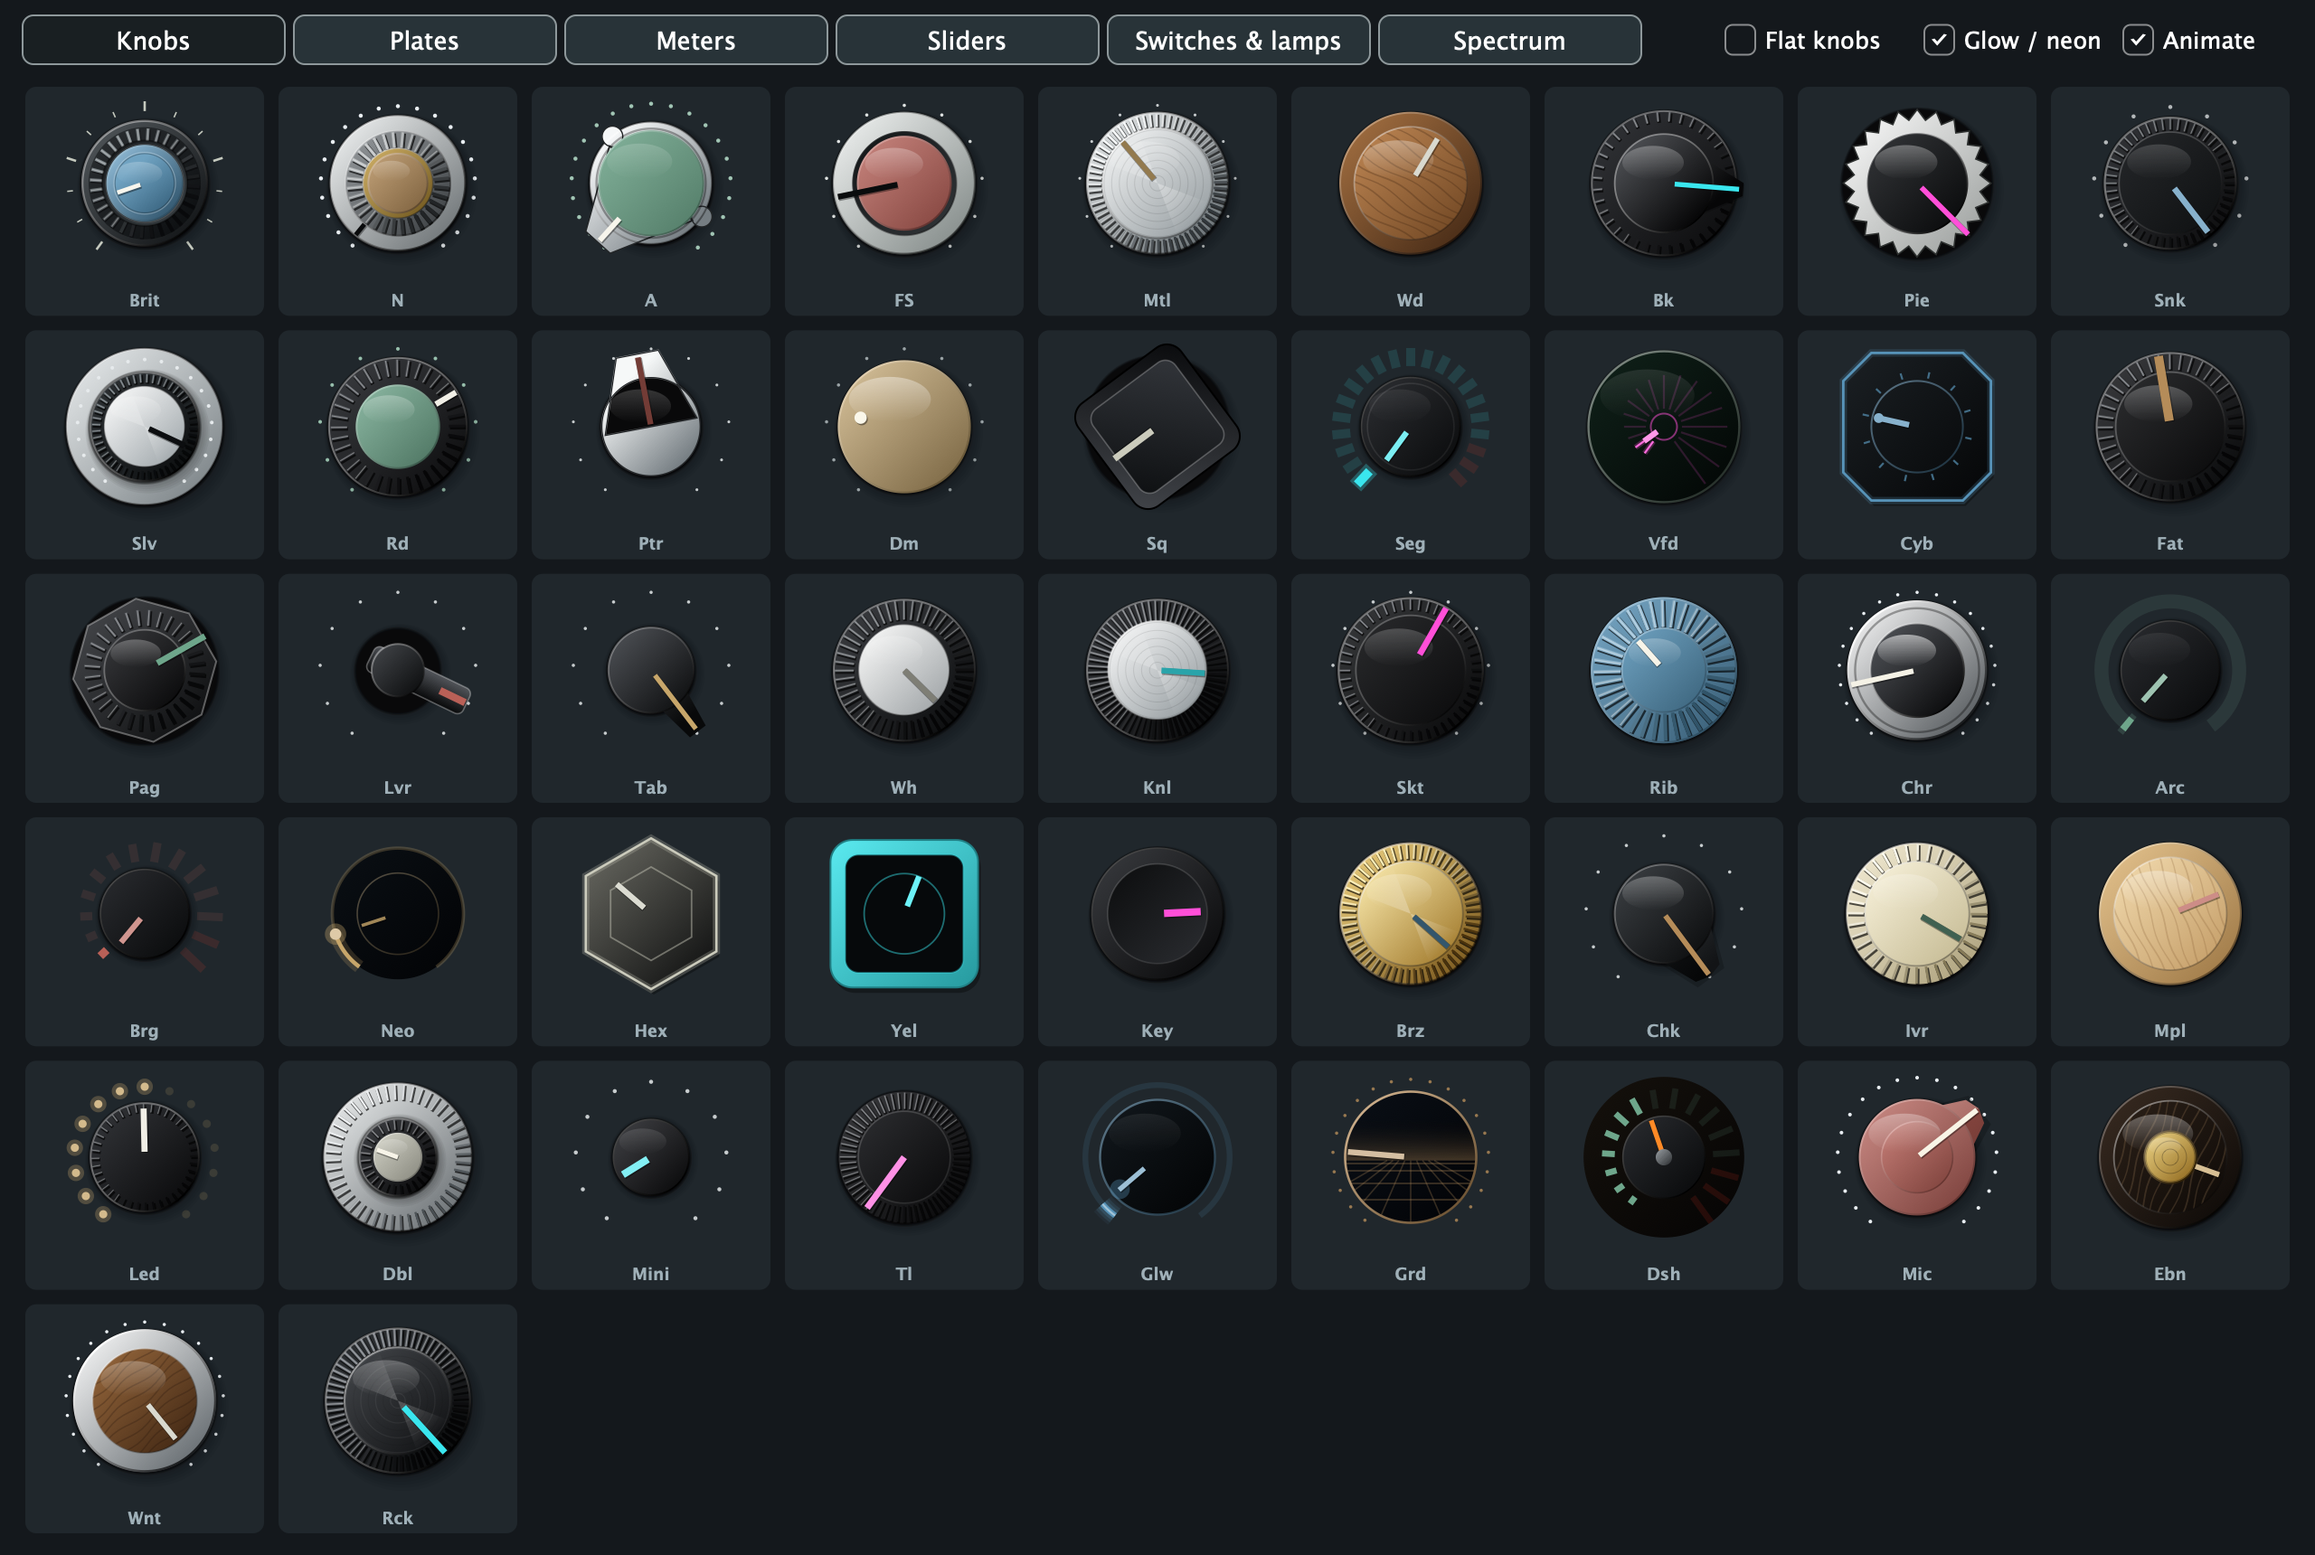
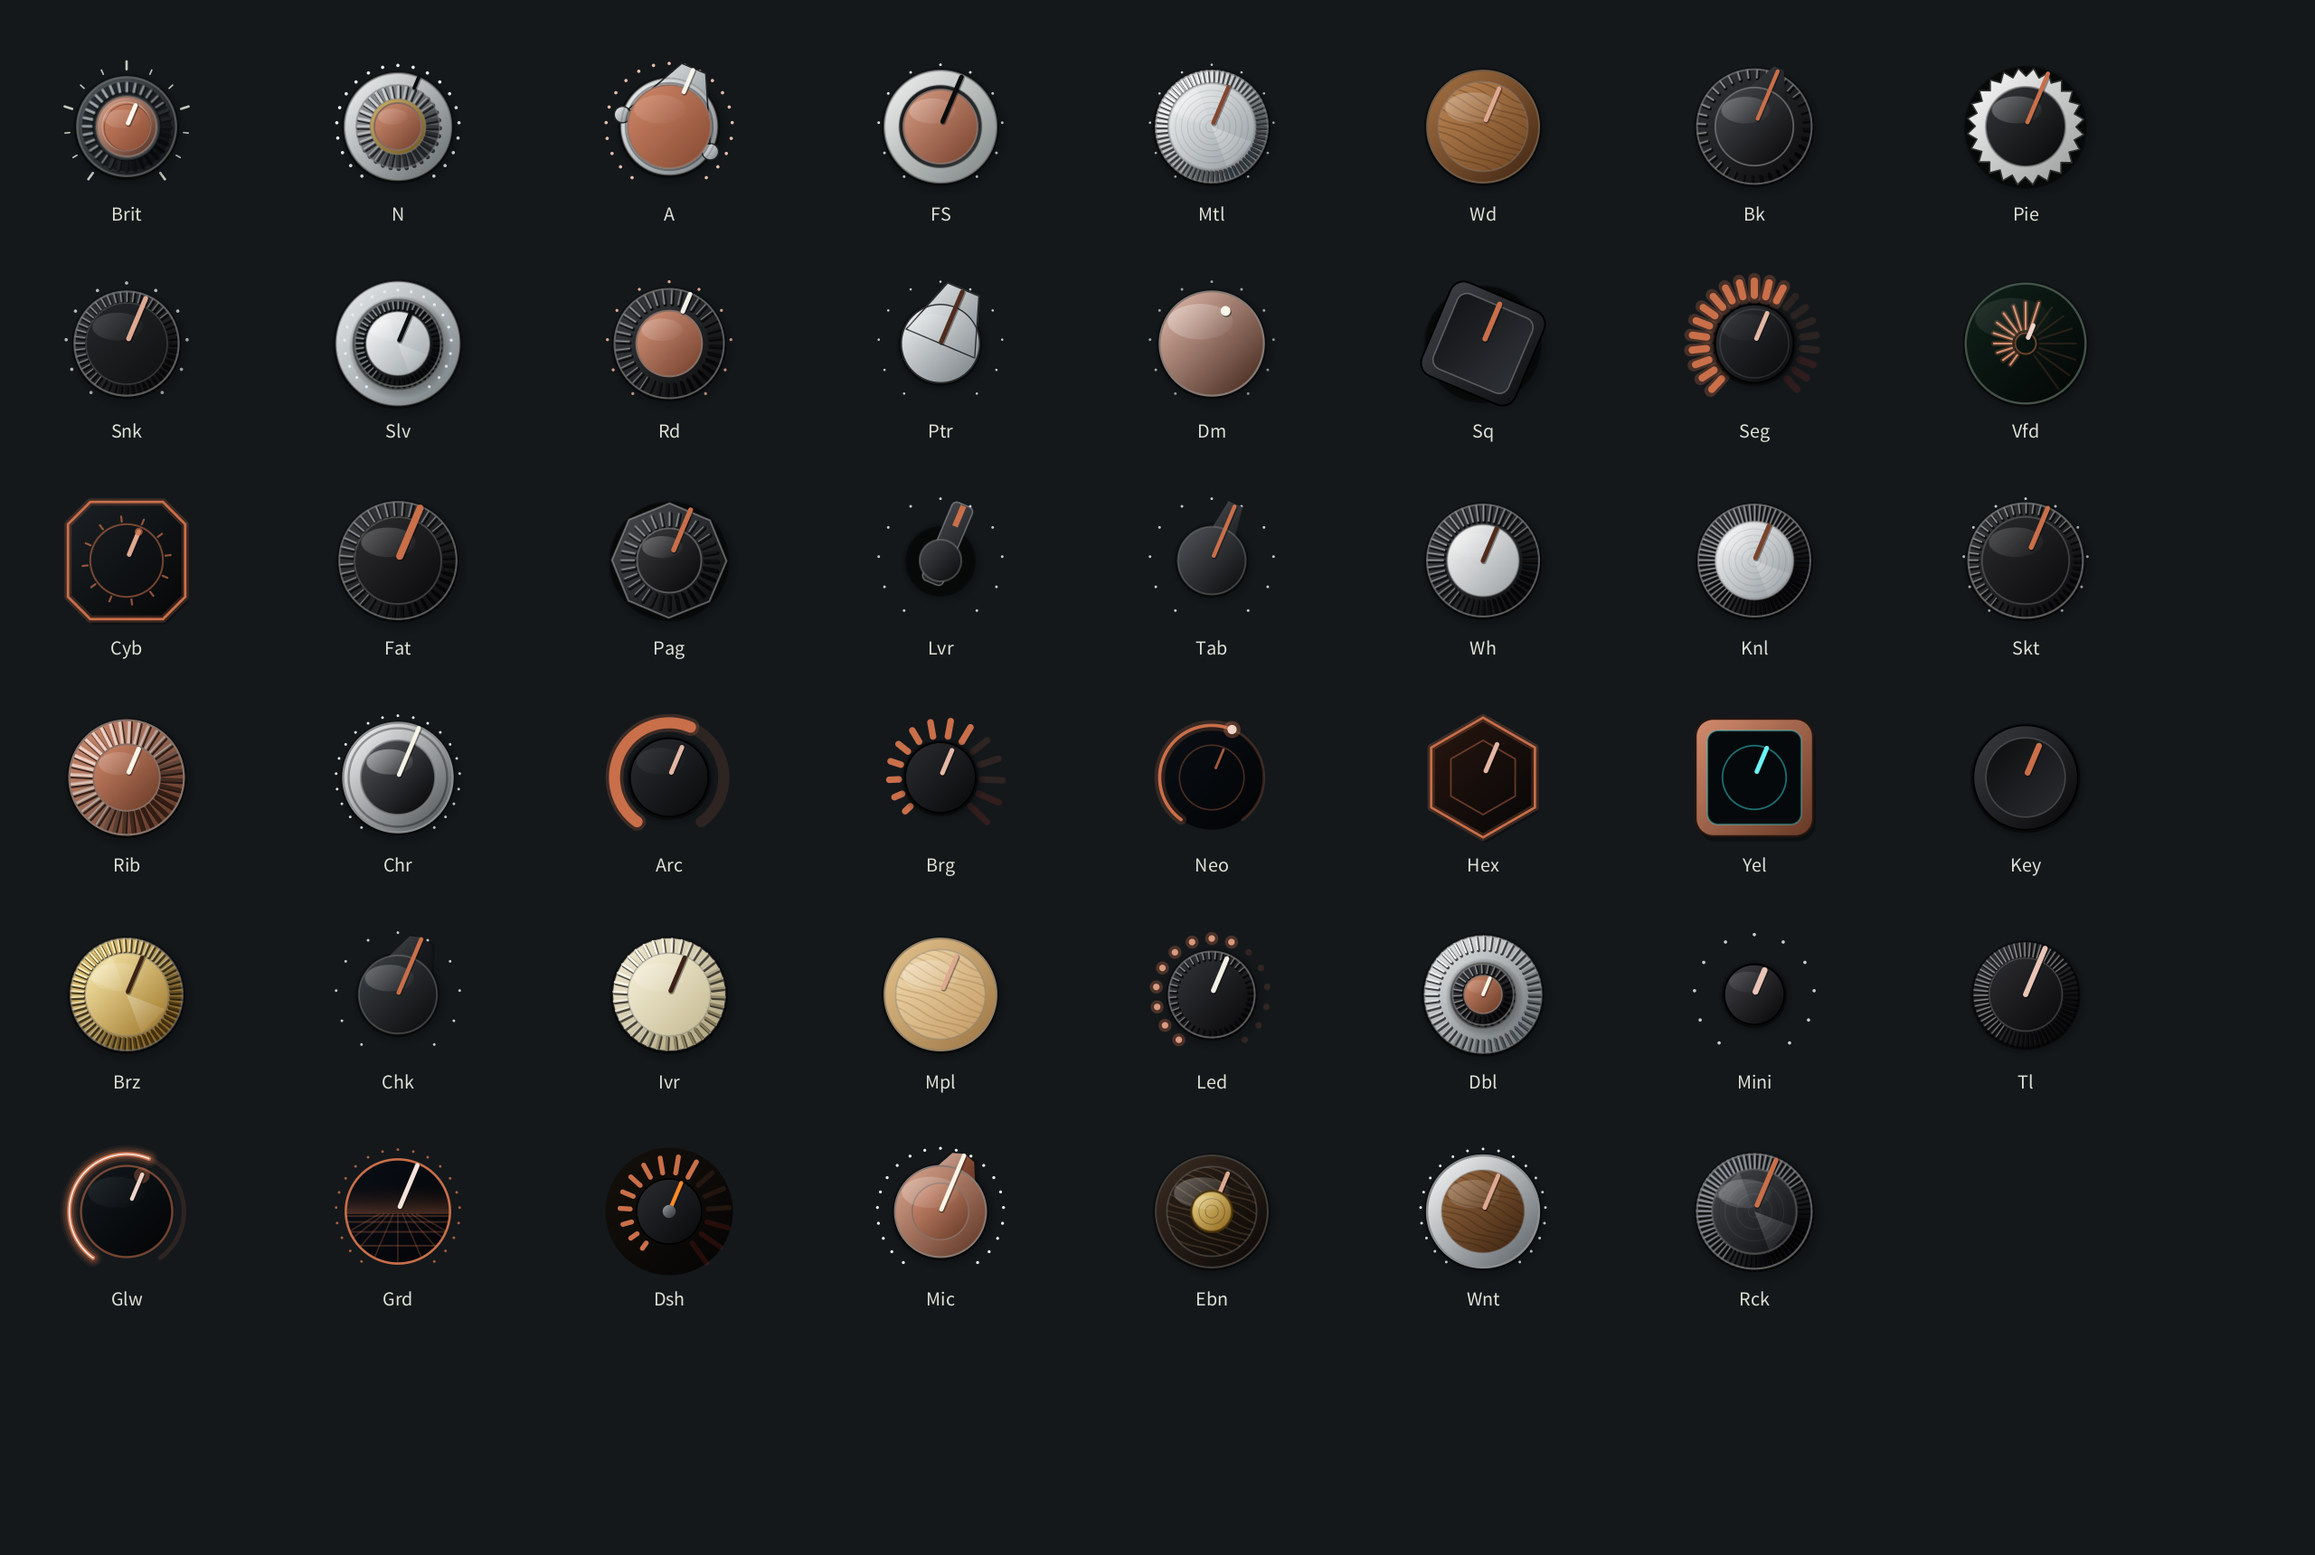
docs: regenerate screenshots and document the lit tier and newer commands
Screenshots are now rendered by this repository's own examples and show
the redesigned parts, the lit knob tier and a demo faceplate. The
integration guide covers lit knobs, the scale and floor hints, and how
hosts handle the newer Scene commands.

diff --git a/docs/INTEGRATION.md b/docs/INTEGRATION.md
@@ -72,6 +72,22 @@ Replay `scene.cmds`. Each command is an ellipse, round rectangle, line, polygon,
 
 `draw::FLAT_KNOBS` selects the flat family for every knob. A style of `flat_Brit` selects it for that knob only.
 
+### Lit knobs
+
+`draw::set_knob_mode(KnobMode::Lit)` selects the lit tier for every knob, and a style of `lit_Brit` selects it for one knob. A lit knob is a per-pixel shaded sprite from `knob3d`, cached per style, size, angle and colour, and emitted as one `Cmd::Image`. Tell the crate the backing scale and the panel colour so sprites are sharp and reflect the right surface:
+
+```rust
+draw::set_knob_scale(scale);          // device pixels per logical unit, default 2
+draw::set_knob_floor(panel_colour);   // colour the knob stands on
+hardware::set_device_scale(scale);    // panel grain follows the same scale
+```
+
+Styles without a lit model, and hosts that cannot blit images, get the classic drawing.
+
+### Newer commands
+
+`Cmd` is `#[non_exhaustive]`. Besides the original shapes it carries `Fill` (multi-stop linear, radial and conic paints, feathered edges, additive blends), `Shadow`, `InnerShadow` and `Image` (premultiplied sRGB pixels). A host that matches on `Cmd` needs a `_` arm. A host that only knows the original commands can replay `scene.lower_basic()`, which rewrites the newer ones into approximations and drops images.
+
 Meters, switches, sliders, screws and the spectrum view are the same idea: pass a `Scene` and the current levels. `SpectrumView::paint` draws Standard, Multicolour, Bars, or Spectrogram from `SpectrumSettings`. `gallery::paint_page` draws one of the six catalogue pages when you want a browser inside a tool.
 
 ## Parameters

diff --git a/README.md b/README.md
@@ -10,9 +10,20 @@ This is an early implementation, not a finished framework.
 
 ## Screenshots
 
-The pictures below are the shared catalogue, rendered by the GoodLookinUI gallery. Every shape is generated in code. GoodLookinDri draws that same catalogue into a [`Scene`](src/scene.rs). `gallery::paint_page` lays out the six pages. A pixel diff against these images is still future work.
+Every picture below is generated in code by this crate and rendered by `goodlookindri-shell`. No bitmaps are shipped. `gallery::paint_page` draws each catalogue page; `cargo run -p goodlookindri-shell --example render_page -- <page> <out.ppm> [scale] [flat|lit]` writes one to a file.
 
-### 47 knobs
+### A complete faceplate
+`cargo run -p goodlookindri-shell --example render_demo -- <out.ppm> [silver|blue]` composes a panel from the toolkit's parts.
+
+![Demo faceplate, silver](docs/images/demo_silver.png)
+![Demo faceplate, blue](docs/images/demo_blue.png)
+
+### 47 knobs, lit
+The lit tier shades each physical knob per pixel from a height profile, materials and a fixed studio light, then caches the result as a sprite. The 35 physical styles each have a lit model; the 12 display and neon styles stay vector. Select it with a `lit_` style prefix or `draw::set_knob_mode(KnobMode::Lit)`. The classic and flat tiers are unchanged.
+
+![Lit knobs](docs/images/knobs_lit.png)
+
+### 47 knobs, classic
 ![Knobs](docs/images/knobs.png)
 
 ### 40 plates, with surface finishes

diff --git a/docs/DEPENDENCIES.md b/docs/DEPENDENCIES.md
@@ -2,9 +2,9 @@
 
 GoodLookinDri is MIT licensed, copyright 2026 Marcos Quirino Deida. See the root [LICENSE](../LICENSE).
 
-The crate depends only on the Rust standard library. `cargo test` uses the built-in test harness. Nothing is downloaded at build time besides the Rust toolchain you already installed.
+The core crate depends only on the Rust standard library. The optional `goodlookindri-shell` crate adds one pinned dependency, `fontdue`, for text. `cargo test` uses the built-in test harness. Nothing is downloaded at build time besides the Rust toolchain you already installed.
 
-Documentation images in `docs/images` are renders of the shared control catalogue, produced by the GoodLookinUI gallery. They are part of this repository and covered by the same MIT license. They are reference pictures, not runtime assets. The library does not load them.
+Documentation images in `docs/images` are renders of the control catalogue, produced by this repository's `render_page` and `render_demo` examples. They are part of this repository and covered by the same MIT license. They are reference pictures, not runtime assets. The library does not load them.
 
 GoodLookinDri does not vendor a plugin framework, a window system, a font, or an FFT library. The spectrum transform is implemented in `src/spectrum.rs`.
 
